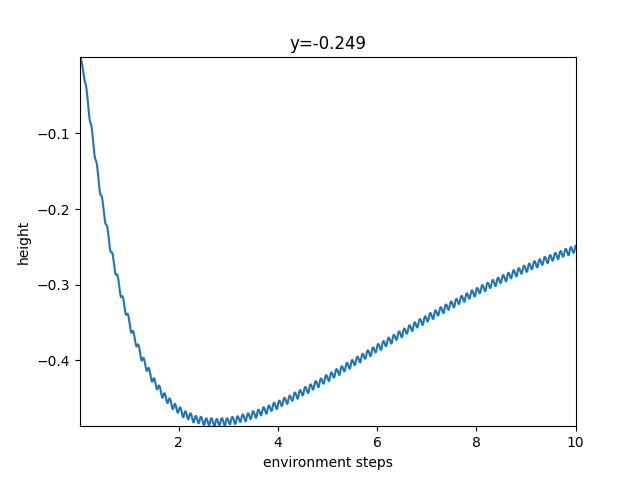
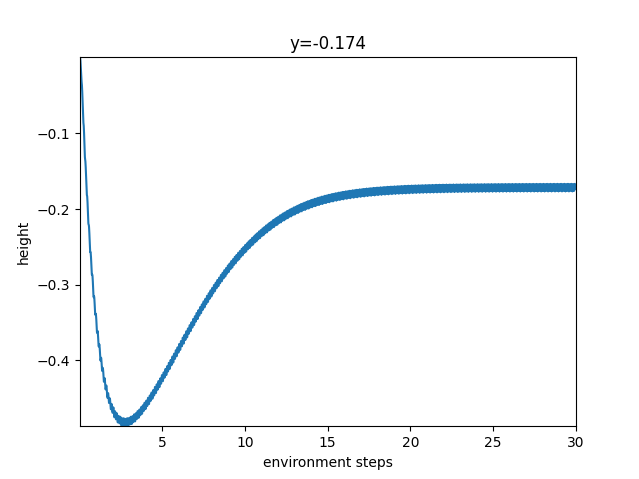
add imgs

diff --git a/README.md b/README.md
@@ -19,32 +19,32 @@
 
 Proximal policy optimization - on-policy алгоритм, один из градиентных методов. Имеет следующие шаги:
 
-    - Сбор данных в среде.
+- Сбор данных в среде.
 
-    - Оценка преимущества (advantages). Показывает, насколько лучше или хуже было выбранное действие по сравнению со средним действием агента в этом состоянии.
+- Оценка преимущества (advantages). Показывает, насколько лучше или хуже было выбранное действие по сравнению со средним действием агента в этом состоянии.
 
-    - Обновление политики. Собранные данные используются для обновления политики несколько раз.
+- Обновление политики. Собранные данные используются для обновления политики несколько раз.
 
-    - Клиппирование. Основной механизм PPO необходимой для безопасного изменения политики и обеспечения стабильности. Соотношение вероятностей по старой политике к вероятностям по новой ограничевается $[1-\epsilon, 1+\epsilon]$ 
+- Клиппирование. Основной механизм PPO необходимой для безопасного изменения политики и обеспечения стабильности. Соотношение вероятностей по старой политике к вероятностям по новой ограничевается $[1-\epsilon, 1+\epsilon]$ 
 
 Главное преимущество - стабильность.
 
 Soft actor critic - off-policy алгоритм. Для алгоритма необходимо сеть actor для выбора действий, чтобы максимизировать награду и энтропию. Две сети критиков для оценки качесва пар состояние-действие. Две сети необходимы дляборьбы с переоценкой действий. И две сети целевых критиков для стабилизации обучения. Имеет следующие шаги:
 
-    -Сбор данных в буфере воспроизведения (Replay Buffer): Агент взаимодействует со средой и сохраняет свой опыт в большой буфер. Ключевое отличие от PPO: может использовать опыт, собранный когда угодно в прошлом (off-policy).
+-Сбор данных в буфере воспроизведения (Replay Buffer): Агент взаимодействует со средой и сохраняет свой опыт в большой буфер. Ключевое отличие от PPO: может использовать опыт, собранный когда угодно в прошлом (off-policy).
 
-    -Обновление Критиков: Мы случайно выбираем "батч" опыта из буфера. Критики ($Q$) учатся предсказывать Q-ценность, используя награду и оценку будущей ценности от целевых критиков. Благодаря буферу мы можем перемешивать и многократно использовать старые данные.
+-Обновление Критиков: Мы случайно выбираем "батч" опыта из буфера. Критики ($Q$) учатся предсказывать Q-ценность, используя награду и оценку будущей ценности от целевых критиков. Благодаря буферу мы можем перемешивать и многократно использовать старые данные.
 
-    -Обновление actor сети: Обновляется так, чтобы выбирать действия, которые дают высокую оценку от сетей критиков, но при этом сама политика должна иметь высокую энтропию.
+-Обновление actor сети: Обновляется так, чтобы выбирать действия, которые дают высокую оценку от сетей критиков, но при этом сама политика должна иметь высокую энтропию.
 
 Менее стабилен, сложен в настройке, более вычислительно сложен. Однако имеет высокую эффеективность к настраиваемым данным, и высокую робастность.
 
 ### Описание среды
 
 Функция наград представляет собой следующее выражение:
-$$
-R = -\| \mathbf{\delta x} \|_2
-$$
+
+$R = -\|\delta\mathbf{x}\|_2$
+
  где $\delta x$ - вектор расстояний до целевой точки.
 
 В работе используются стандартные значения плотности и вязкости воздуха (стандартная атмосфера). Ускорение свободного падения равно 5 для упрощения обучения, поскольку изменение морфологии ограничено.
@@ -60,6 +60,8 @@ $$
 На графиках видно, что SAC сходится быстрее, PPO сходится более стабильно. Политика, обученная алгоритмом PPO не регулирует положение орнитоптера. Процесс регулирования политикой обученной SAC представлен на рисунке ниже:
 
 ![Валидация SAC](results_imgs/sac_valid.png)
+![Валидация SAC 1](results_imgs/sac_valid_-20.png)
+![Валидация SAC 2](results_imgs/sac_valid_50.png)
 
 ## Демонстрация работы
 